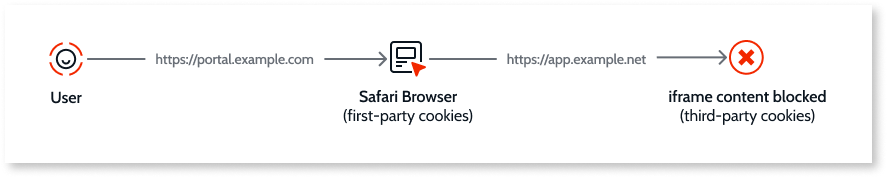
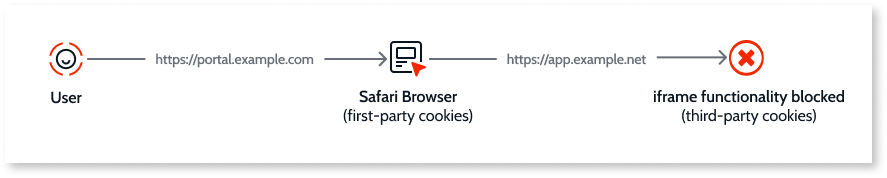
[TK-5101] Changes to graphics and text re Safari and iframes

diff --git a/src/managing-the-applications-lifecycle/secure-the-applications/apply-content-security-policy.md b/src/managing-the-applications-lifecycle/secure-the-applications/apply-content-security-policy.md
@@ -171,7 +171,7 @@ https://YOUR_APP_URL
 
 ### iframe content is blocked
 
-If iframe content displays as expected on Android on a browser but not on iOS, the most probable cause is that the `outsystems://` scheme is missing.
+If iframe content displays as expected on Android on a browser but not on iOS, the most probable cause is that the custom `outsystems://` scheme is missing.
 
 Add the following to the **frame-ancestors** directive field:
 
@@ -187,7 +187,7 @@ You can get more information if you notice this behavior from the **Service Cent
 
 With the [version 2.3](https://webkit.org/blog/9521/intelligent-tracking-prevention-2-3/) release of Apple’s Webkit Intelligent Tracking Prevention (ITP) in 2017, Safari on iOS 13 and iPadOS beta, and Safari 13 on macOS, blocks all cookies for cross-site resources by default.
 
-In these browsers iframe content displays correctly when the **frame-ancestors** directive field has been configured properly. However, an app that requires cookies to save/transfer user info will not behave as expected.
+In these browsers iframe content displays correctly when the **frame-ancestors** directive field has been configured properly. However, an app that requires cookies to save or transfer user info will not behave as expected.
 
 An example of this behavior is shown below:
 
@@ -220,22 +220,21 @@ For more information about implementing this solution see the following document
 
 A second method relies on Apple’s Webkit [Storage Access API](https://webkit.org/blog/11545/updates-to-the-storage-access-api/) that protects end-user privacy and prevents cross-site request forgeries by asking users to consent to giving access to their cookies from one domain to another.
 
-The following workflow uses Storage Access API as follows:
+The following workflow provides a natural experience with minimum friction for a first-time users of a portal page (`https://portal.example.com`) with an app (`https://app.example.net`) embedded in an iframe.
 
 1. The user accesses the portal page (`https://portal.example.com`).
-1. If a cookie does not exist `https://portal.example.com` redirects the user to the **OutSystems** app (`https://app.example.net`) in the iframe to handle the user interaction.
-1. The user interacts with the **OutSystems** app as the first party, and establishes the website in the iframe as visited for the purposes of the underlying Storage Access API cookie policy. 
-1. The user is redirected to the portal page (`https://portal.example.com`). The content in the iframe displays correctly and behaves as expected.
+1. A script checks if the browser supports Storage Access API and if storage access has been requested.
+1. If no cookie for storage access has been created, the user is directed to (`https://app.example.net`) in the iframe.
+1. The user interacts with the iframe app as the first party and establishes it as visited for the purposes of the underlying Storage Access API cookie policy. For this session, and during every subsequent visit, the content in the iframe behaves as expected.
+1. The user is then forwarded to the portal page (`https://portal.example.com`).
 
 ![Safari allows iframe from 3rd party app](images/safari-allows-iframe-diag.png)
 
-During all subsequent visits the content in the iframe displays correctly and behaves as expected.
-
-Designers may use the following guidelines as a basis for designing a natural end-user workflow that presents minimal friction using Storage Access API.
+Designers may use the following code snippets to implement a solution based on Storage Access API.
 
 <div class="info" markdown="1">
 
-Change URLs in the code snippets to reflect the actual project addresses. 
+Change URLs to reflect actual project addresses. 
 
 </div>
 
@@ -267,7 +266,7 @@ Include the following elements on the portal page (`https://portal.example.com`)
              // Set cookie to maximum (https://stackoverflow.com/a/33106316/1502448)
              document.cookie = 'fixed=fixed; expires=Tue, 19 Jan 2038 03:14:07 UTC; path=/';
              // Navigate to interaction screen at the first party. In our case, the screen with the button that created the cookie
-             window.location.replace("https://portal.example.com");
+             window.location.replace("https://app.example.com");
         }
     }
  <script>
@@ -276,23 +275,6 @@ Include the following elements on the portal page (`https://portal.example.com`)
 ##### iframe app
 
 The hosted **OutSystems** app in the iframe element (`https://app.example.net`) should begin with a mechanism for the user to authorize the use of cookies.
-
-
-##### Workflow using Storage Access API
-
-When the user goes to the portal page (`https://portal.example.com`) the following happens:
-
-1. The script checks that the browser supports Storage Access API, meaning that the user is on the Safari browser. Cookie properties are set. The user is then sent to the login screen in the **OutSystems** app (`https://app.example.net`) hosted in an iframe of the portal.
-2. If no cookies have been previously created for the app in the iframe the user is asked to give consent. 
-
-    <div class="info" markdown="1">
-
-    If consent had been given on a previous visit, only a **Continue** button appears.. 
-
-    </div>
-
-3. Once consent is given, the consent button is hidden and the **Log in** button is shown.
-4. The user logs in and is directed to the portal application. The iframe app is now functional.
 
 See [Introducing Storage Access API](https://webkit.org/blog/8124/introducing-storage-access-api/) for a detailed explanation about implementing this solution.
 
